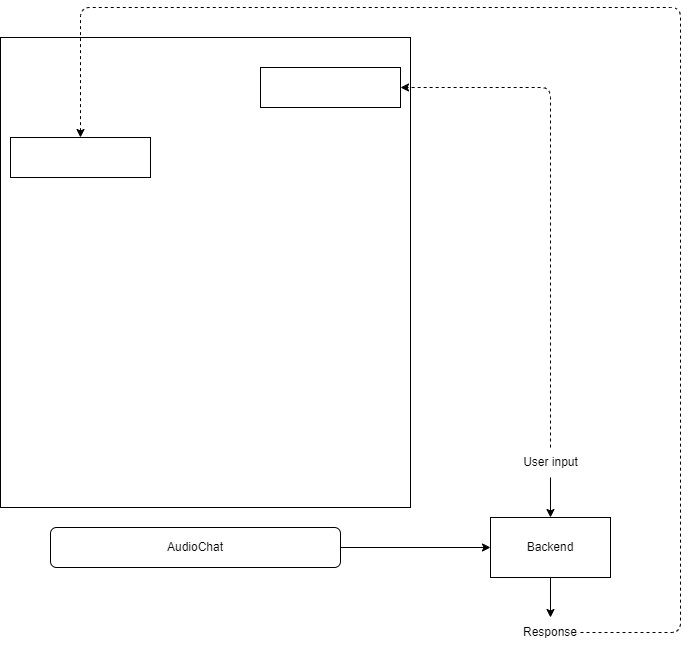
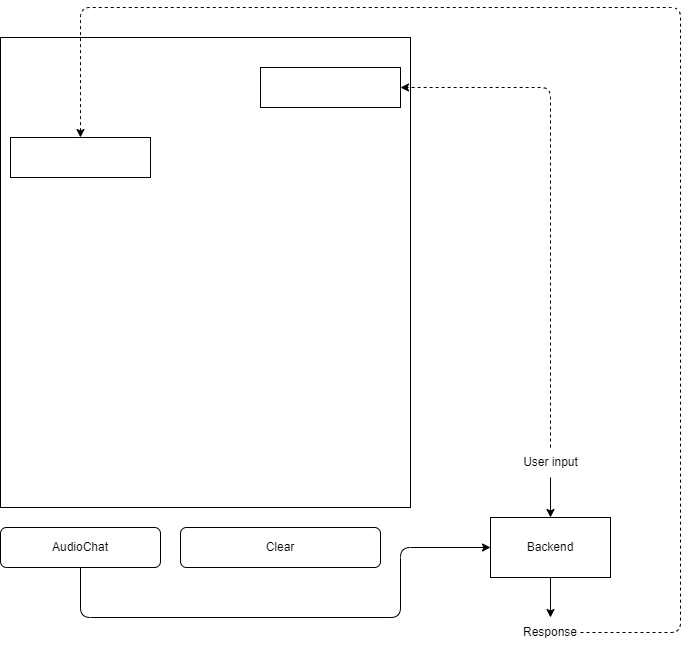
添加纯语音对话的开关按键

diff --git a/src/frontend/chatbot_interface-s2s.py b/src/frontend/chatbot_interface-s2s.py
@@ -4,7 +4,9 @@ import json
 import time
 import queue
 import random
+import asyncio
 import threading
+import multiprocessing
 import gradio as gr
 
 from typing import Generator
@@ -16,7 +18,7 @@ from AsyncAudioChat import Backend,LLM,STT,LOGGER,END,lingji_stt_gradio_va
 class STT(STT):
     def __init__(self, stt_api, text, *args, **kwargs):
         super().__init__(stt_api, text, *args, **kwargs)
-        self.stt_for_web_display = queue.Queue()
+        self.stt_for_web_display:multiprocessing.Queue = kwargs['stt_for_web_display']
     
     def run(self,):
         super().run()
@@ -28,7 +30,7 @@ class LLM(LLM):
 
         # 解决前端无法实时获取token的问题。
         '''在后端线程实现里expose一个`response_for_web_display`的队列，如果LLM推理出了一个新的token，就放到这个队列里，如果推理完毕，则放入一个推理结束标志符号。'''
-        self.response_for_web_display = queue.Queue()
+        self.response_for_web_display:multiprocessing.Queue = kwargs_for_run['response_for_web_display']
         
     def __run2_ollama(self, llm_iterator, *args, **kwargs):
         old_total_response = ""
@@ -78,8 +80,8 @@ class Backend(Backend):
     def __init__(self, *args, **kwargs):
         super().__init__(*args, **kwargs)
         
-        self.stt_thread = STT(lingji_stt_gradio_va, self.text)
-        self.llm_thread = LLM(self.text, self.text_queue, ollama_model_name=self._ollama_model_name, ollama_base_url=self._ollama_base_url)
+        self.stt_thread = STT(lingji_stt_gradio_va, self.text, stt_for_web_display=kwargs['stt_for_web_display'])
+        self.llm_thread = LLM(self.text, self.text_queue, ollama_model_name=self._ollama_model_name, ollama_base_url=self._ollama_base_url, response_for_web_display=kwargs['response_for_web_display'])
         
         self.stt_for_web_display = self.stt_thread.stt_for_web_display
         self.response_for_web_display = self.llm_thread.response_for_web_display
@@ -92,78 +94,106 @@ class Chatbot:
                 #component-0 { height: 100%; }
                 #chatbot { flex-grow: 1; overflow: auto;}
                 """
+        # 为了提高整体性，我们会把对话封装为一个进程，而当用户再次点击按钮后，
+        # 则需要停止对话的创建，取消子进程的运行。这可以通过一个flag_stop_chat变量来表示：
+        # 第一次点击时，flag_stop_chat为False，创建进程，当用户再次点击按钮后，flag_stop_chat为True，取消进程。
+        self.stt_for_web_display = multiprocessing.Queue()
+        self.response_for_web_display = multiprocessing.Queue()
+        # 要在gr的范围内定义，否则会爆粗key error
+        self.flag_stop_chat = None
 
-    def run(self,):
+    def _run_backend(self, stt_for_web_display:multiprocessing.Queue, response_for_web_display:multiprocessing.Queue, *args, **kwargs):
+        '''后端对话实现：单轮'''
+        backend_thread = Backend(stt_for_web_display=stt_for_web_display, response_for_web_display=response_for_web_display, *args, **kwargs)
+        backend_thread.start()
+        backend_thread.join()
+
+    def run_backend(self, chatbot, flag_stop_chat):
+        # 为了提高整体性，我们会把对话封装为一个进程，而当用户再次点击按钮后，
+        # 则需要停止对话的创建，取消子进程的运行。这可以通过一个flag_stop_chat变量来表示：
+        # 第一次点击时，flag_stop_chat为False，创建进程，当用户再次点击按钮后，flag_stop_chat为True，取消进程。
+        if not flag_stop_chat:
+            while True:
+                flag_stop_chat = True
+                self.process_backend = multiprocessing.Process(target=self._run_backend, daemon=True, args=(self.stt_for_web_display, self.response_for_web_display))
+                self.process_backend.start()
+                
+                # 后端运行
+                # 前端对后端进程通信，获取数据。
+                for chatbot_ in self.communicate_backend(chatbot):
+                    yield chatbot_,flag_stop_chat
+                
+                self.process_backend.join()
+
+                if self.flag_skip_out_loop.value:
+                    # LOGGER.info("I have skip out of loop.")
+                    self.flag_skip_out_loop.value = False
+                    break
+        else:
+            # 如果后端进程存在，则关闭。
+            flag_stop_chat = False
+            self.stt_for_web_display = multiprocessing.Queue()
+            self.response_for_web_display = multiprocessing.Queue()
+            if self.process_backend.is_alive():
+                self.process_backend.terminate()
+                self.flag_skip_out_loop.value = True
+                # LOGGER.info("Backend process terminated.")
+            yield [],flag_stop_chat
+
+    def communicate_backend(self, chatbot):
+        
+        user_text = None
+        while True:
+            # 如果进程已经取消了，并且这里还使用queue.get方法的话，就会一直卡在这里。
+            if not self.process_backend.is_alive():
+                return []
+
+            try:
+                user_text = self.stt_for_web_display.get_nowait()
+            except queue.Empty:
+                time.sleep(0.01)
+                # LOGGER.error("No data received from the stt.")
+            finally:
+                if user_text:
+                    break
+        
+        chatbot += [[user_text,None]]
+        yield chatbot
+            
+        chatbot[-1][1] = ""
+        while True:
+            token = self.response_for_web_display.get()
+            if token == END:
+                break
+            chatbot[-1][1] += token
+            yield chatbot
+
+    def run_web(self,):
         with gr.Blocks(css=self.css) as demo:         # css: 实现全高 分布
             chatbot = gr.Chatbot(elem_id="chatbot")   # css: 实现全高 分布
-            
+            # 要在gr的范围内定义，否则会报key error
+            self.flag_stop_chat = gr.State(False)
+            self.flag_skip_out_loop = gr.State(False)
+
             with gr.Row():
                 msg = gr.Button("AudioChat")
-                clear = gr.Button("Clear")
+                clear = gr.Button("Stop & Clear")
 
             msg.click(
                 self.run_backend, 
-                [chatbot], 
-                [chatbot]
+                [chatbot, self.flag_stop_chat], 
+                [chatbot, self.flag_stop_chat],
             )
-            clear.click(lambda: None, None, chatbot, queue=False)
+            clear.click(self.run_backend, 
+                [chatbot, self.flag_stop_chat], 
+                [chatbot, self.flag_stop_chat],
+            ).then(lambda: None, None, chatbot)
 
         demo.launch()
 
-    def backend(self, *args, **kwargs) -> Generator[str, None, None]:
-        '''后端对话实现：单轮'''
-        backend_thread = Backend(*args, **kwargs)
-        backend_thread.start()
-
-        # 先返回STT结果
-        user_input = backend_thread.stt_for_web_display.get()
-        yield user_input
-        # 再返回LLM推理结果
-        llm_response_queue = backend_thread.response_for_web_display
-        while True:
-            token = llm_response_queue.get()
-            if token == END:
-                break
-            yield token
-        
-        backend_thread.join()
-        
-    def run_backend(self, chatbot):
-        while True:
-            llm_backend = self.backend()
-            
-            user_text = next(llm_backend)
-            chatbot += [[user_text,None]]
-            yield chatbot
-            
-            chatbot[-1][1] = ""
-            for token in llm_backend:
-                chatbot[-1][1] += token
-                yield chatbot
-
-    def test(self,):
-        with gr.Blocks(css=self.css) as demo:         # css: 实现全高 分布
-            chatbot = gr.Chatbot(elem_id="chatbot")   # css: 实现全高 分布
-            
-            with gr.Row():
-                msg = gr.Button("AudioChat")
-                clear = gr.Button("Clear")
-
-            def test(chatbot):
-                # while True:
-                time.sleep(1)
-                chatbot += [["hello world","hello world"]]
-                yield chatbot
-            
-            msg.click(
-                test, 
-                [chatbot], 
-                [chatbot],
-                queue=True,
-            )
-            clear.click(lambda: None, None, chatbot, queue=False)
-
-        demo.launch()
 if __name__ == "__main__":
-    main_thread = Chatbot()
-    main_thread.run()
+    process = multiprocessing.Process(target=Chatbot().run_web)
+
+    process.start()
+    process.join()
+

diff --git a/src/zijie_tts.py b/src/zijie_tts.py
@@ -50,7 +50,7 @@ def tts(
 
     cluster = "volcano_tts"
 
-    voice_type = "BV005_streaming"
+    voice_type = "BV503_streaming"
     host = "openspeech.bytedance.com"
     api_url = f"https://{host}/api/v1/tts"
 
@@ -144,8 +144,11 @@ class AudioConsumer(threading.Thread):
         mixer.quit()
 
 if __name__ == '__main__':
+    os.environ["zijie_tts_app_id"] = "3065693124"
+    os.environ["zijie_tts_access_token"] = "OBINUyUlD0ZnrMA10zh6ykOvISm2SRN-"
     if not os.environ.get("zijie_tts_app_id"):
         logger = get_logger("tts_key_checker")
         logger.error("Please set your APP ID and access token in the environment variables zijie_tts_app_id and tts_key_checker")
         exit(1)
-    tts("中国，全称中华人民共和国，位于亚洲东部，太平洋西岸，是世界上人口最多的国家之一，拥有超过五千年的悠久历史和灿烂文化。中国疆域辽阔，陆地面积约为960万平方千米，地域多样，从东部的平原、丘陵到西部的高原、山脉，自然景观丰富。")
+    # print(tts("中国，全称中华人民共和国，位于亚洲东部，太平洋西岸，是世界上人口最多的国家之一，拥有超过五千年的悠久历史和灿烂文化。中国疆域辽阔，陆地面积约为960万平方千米，地域多样，从东部的平原、丘陵到西部的高原、山脉，自然景观丰富。"))
+    print(tts("hello, how can i help you."))

diff --git a/src/ali_stt_voice_awake.py b/src/ali_stt_voice_awake.py
@@ -172,7 +172,7 @@ class AudioRecognitionThread(threading.Thread):
             time.sleep(0.01)  # 控制循环频率，减少CPU占用
         logging.log(level=logging.INFO, msg="语音帧发送线程已结束...")
 
-def lingji_stt_gradio_va() -> str:
+def lingji_stt_gradio_va(*args, **kwargs) -> str:
     '''
     拥有语音唤醒功能的实时文本转语音函数
     '''

diff --git a/src/frontend/README.md b/src/frontend/README.md
@@ -5,7 +5,7 @@
 用户在输入框中输入文字后，再点击“Enter”按钮，就会触发“Backend”函数，其会接收用户的输入，然后给出相应，最后这个相应会出现在聊天框的左边，而用户输入则会在右边。
 ![alt text](arch/Web_Arch.png)
 ## 纯语音对话界面
-这个界面将只有一个录音按钮，用户点击这个按钮，就会触发“Backend”函数，其会接收用户的录音，然后给出回复，最后这个回复会出现在聊天框的左边，用户的输入会被转换成文字，放在右边。
+这个界面将有一个语音交互按钮，用户点击这个按钮，就会触发“Backend”函数，其会接收用户的录音，然后给出回复，最后这个回复会出现在聊天框的左边，用户的输入会被转换成文字，放在右边。另外，“Clear”按钮用于清空聊天框。
 ![alt text](arch/Web_Arch-s2s.png)
 ### AudioChat按钮触发后端函数后，获得用户语音转录结果以及LLM的response的解决方案。
 由于"Backend"的实现是一个线程，具有高封装性，已有的实现没法从一个正在运行的线程中实时获取最新的推理结果，为了能够实时得到最新的LLM推理的token以及STT的结果，这里给出的解决方案为：
@@ -16,5 +16,6 @@
 ### 多轮对话实现
 当前`Backend`是一个单轮对话API，要实现多轮对话，就需要在死循环里创建`Backend`实例：
 - 当一次交互完成时，便会自动创建新的实例。
-- 当用户再次点击按钮后，则需要停止实例的创建，这可以通过一个flag_stop_chat变量来表示：第一次创建时，flag_stop_chat为False，当用户再次点击按钮后，flag_stop_chat为True，然后直接执行`exit(1)`。
-![alt text](arch/Web_Arch-s2s-multi-turn-chat.png)
+- ![alt text](arch/Web_Arch-s2s-multi-chat.png)
+- 另外，为了提高整体性，我们会把对话封装为一个进程，而当用户再次点击按钮后，则需要停止实例的创建，取消子进程的运行。这可以通过一个flag_stop_chat变量来表示：第一次点击时，flag_stop_chat为False，创建进程，当用户再次点击按钮后，flag_stop_chat为True，取消进程。当对话被封装为一个进程后，我们需要把其暴露出来的`response_for_web_display`和`stt_for_web_display`实现为使用`multiprocessing.Queue`的实现，这样就能够把数据从子进程发送到主进程。
+  
